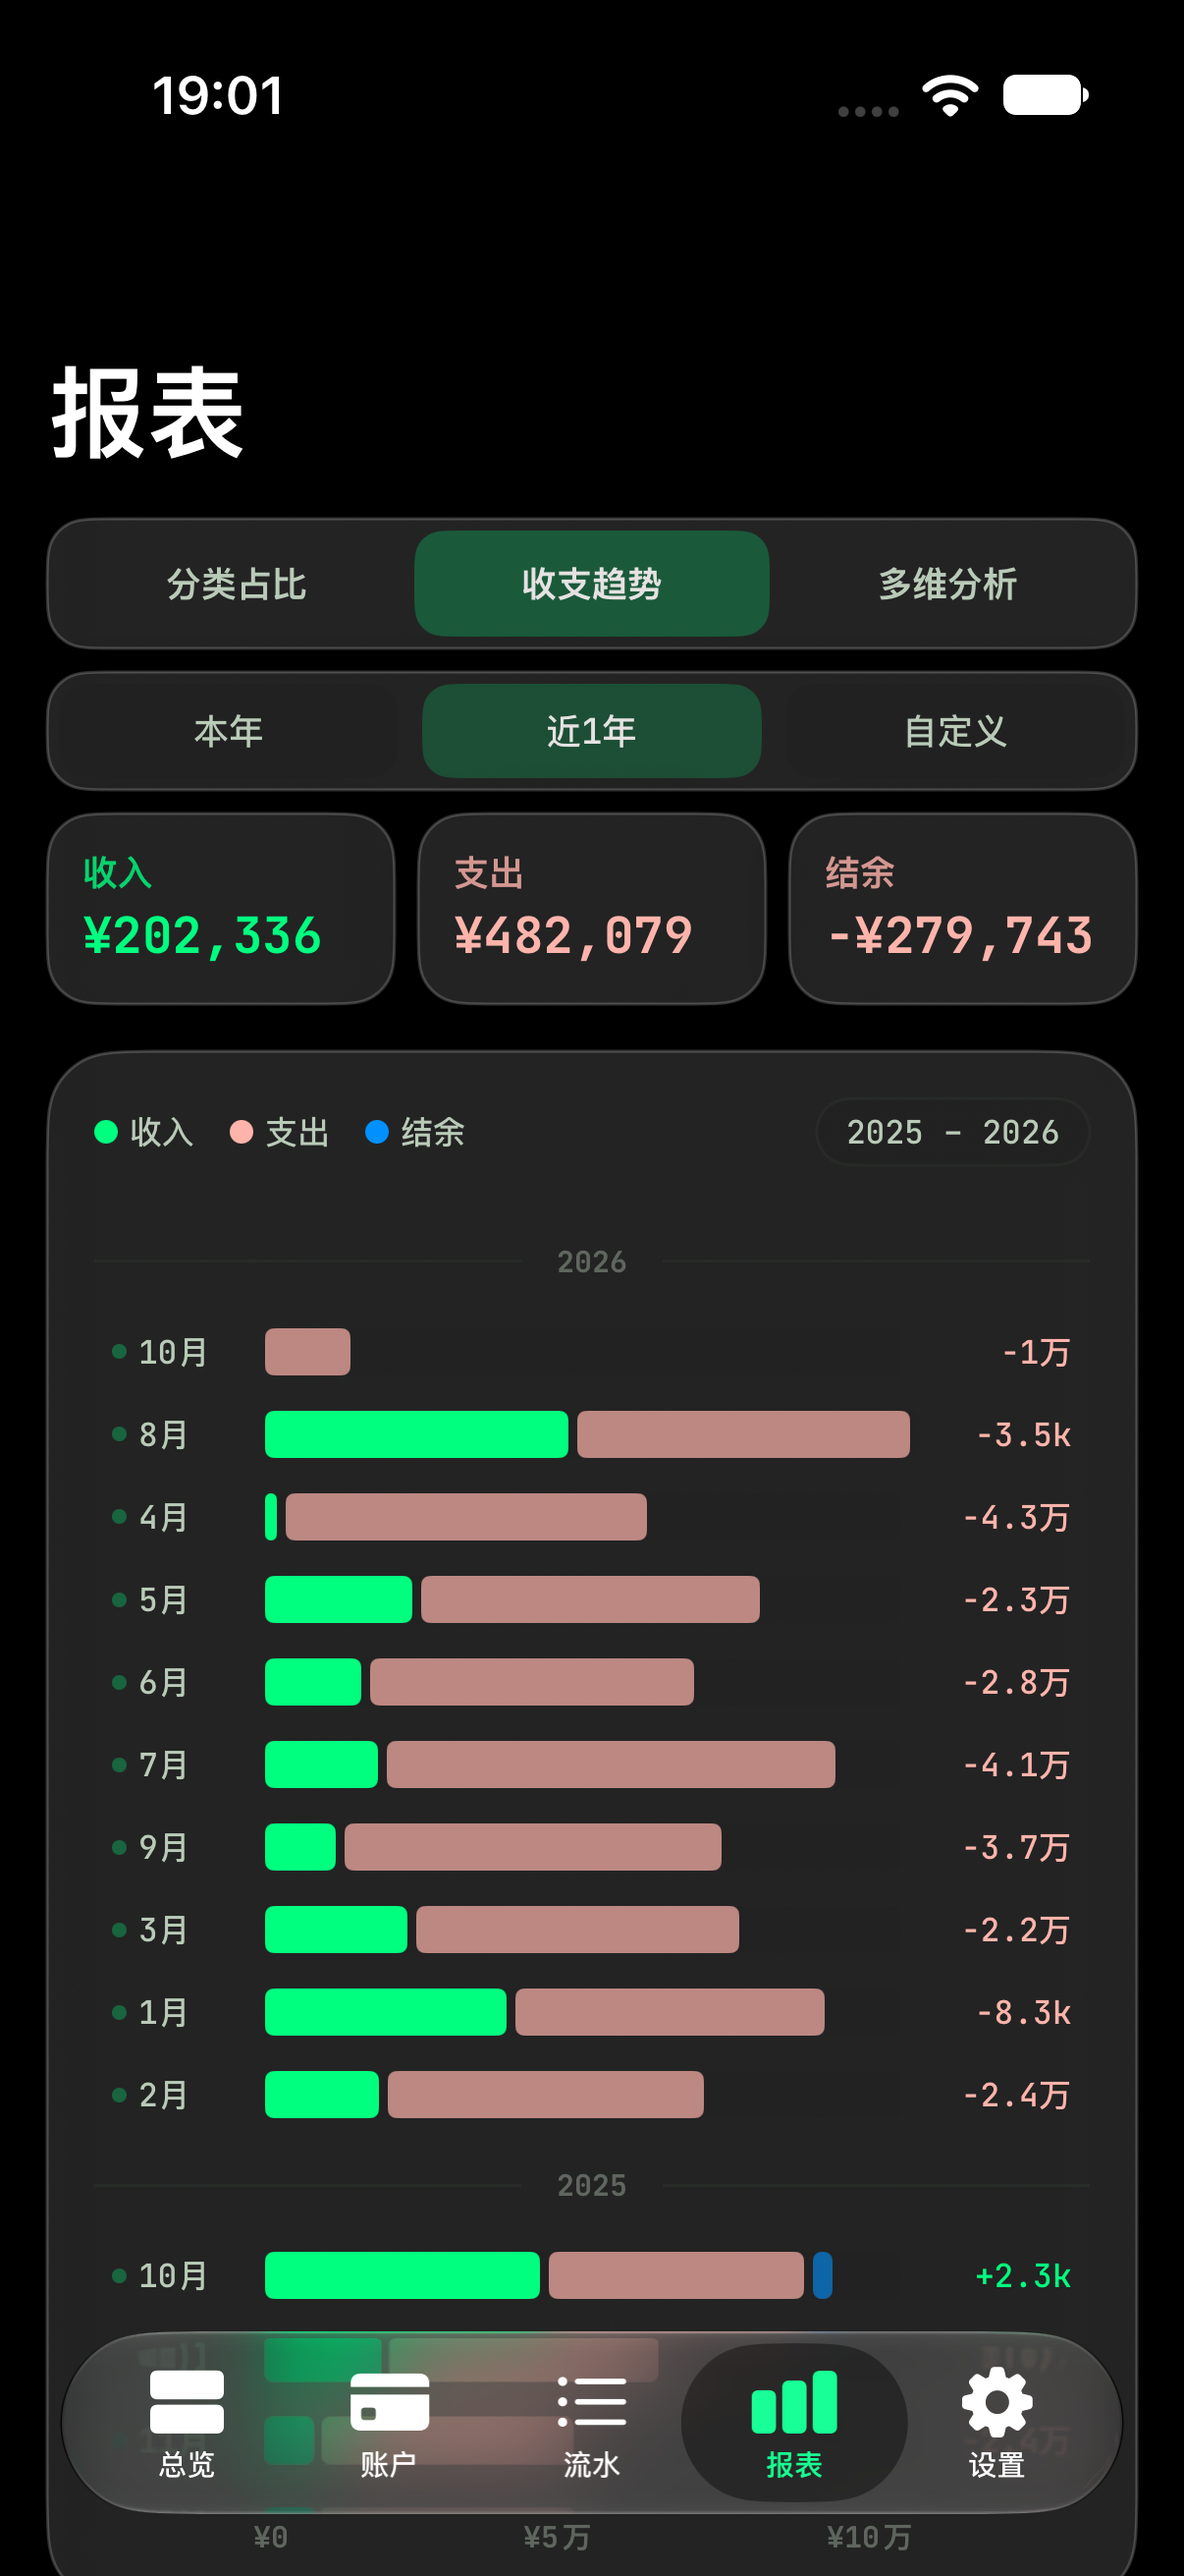
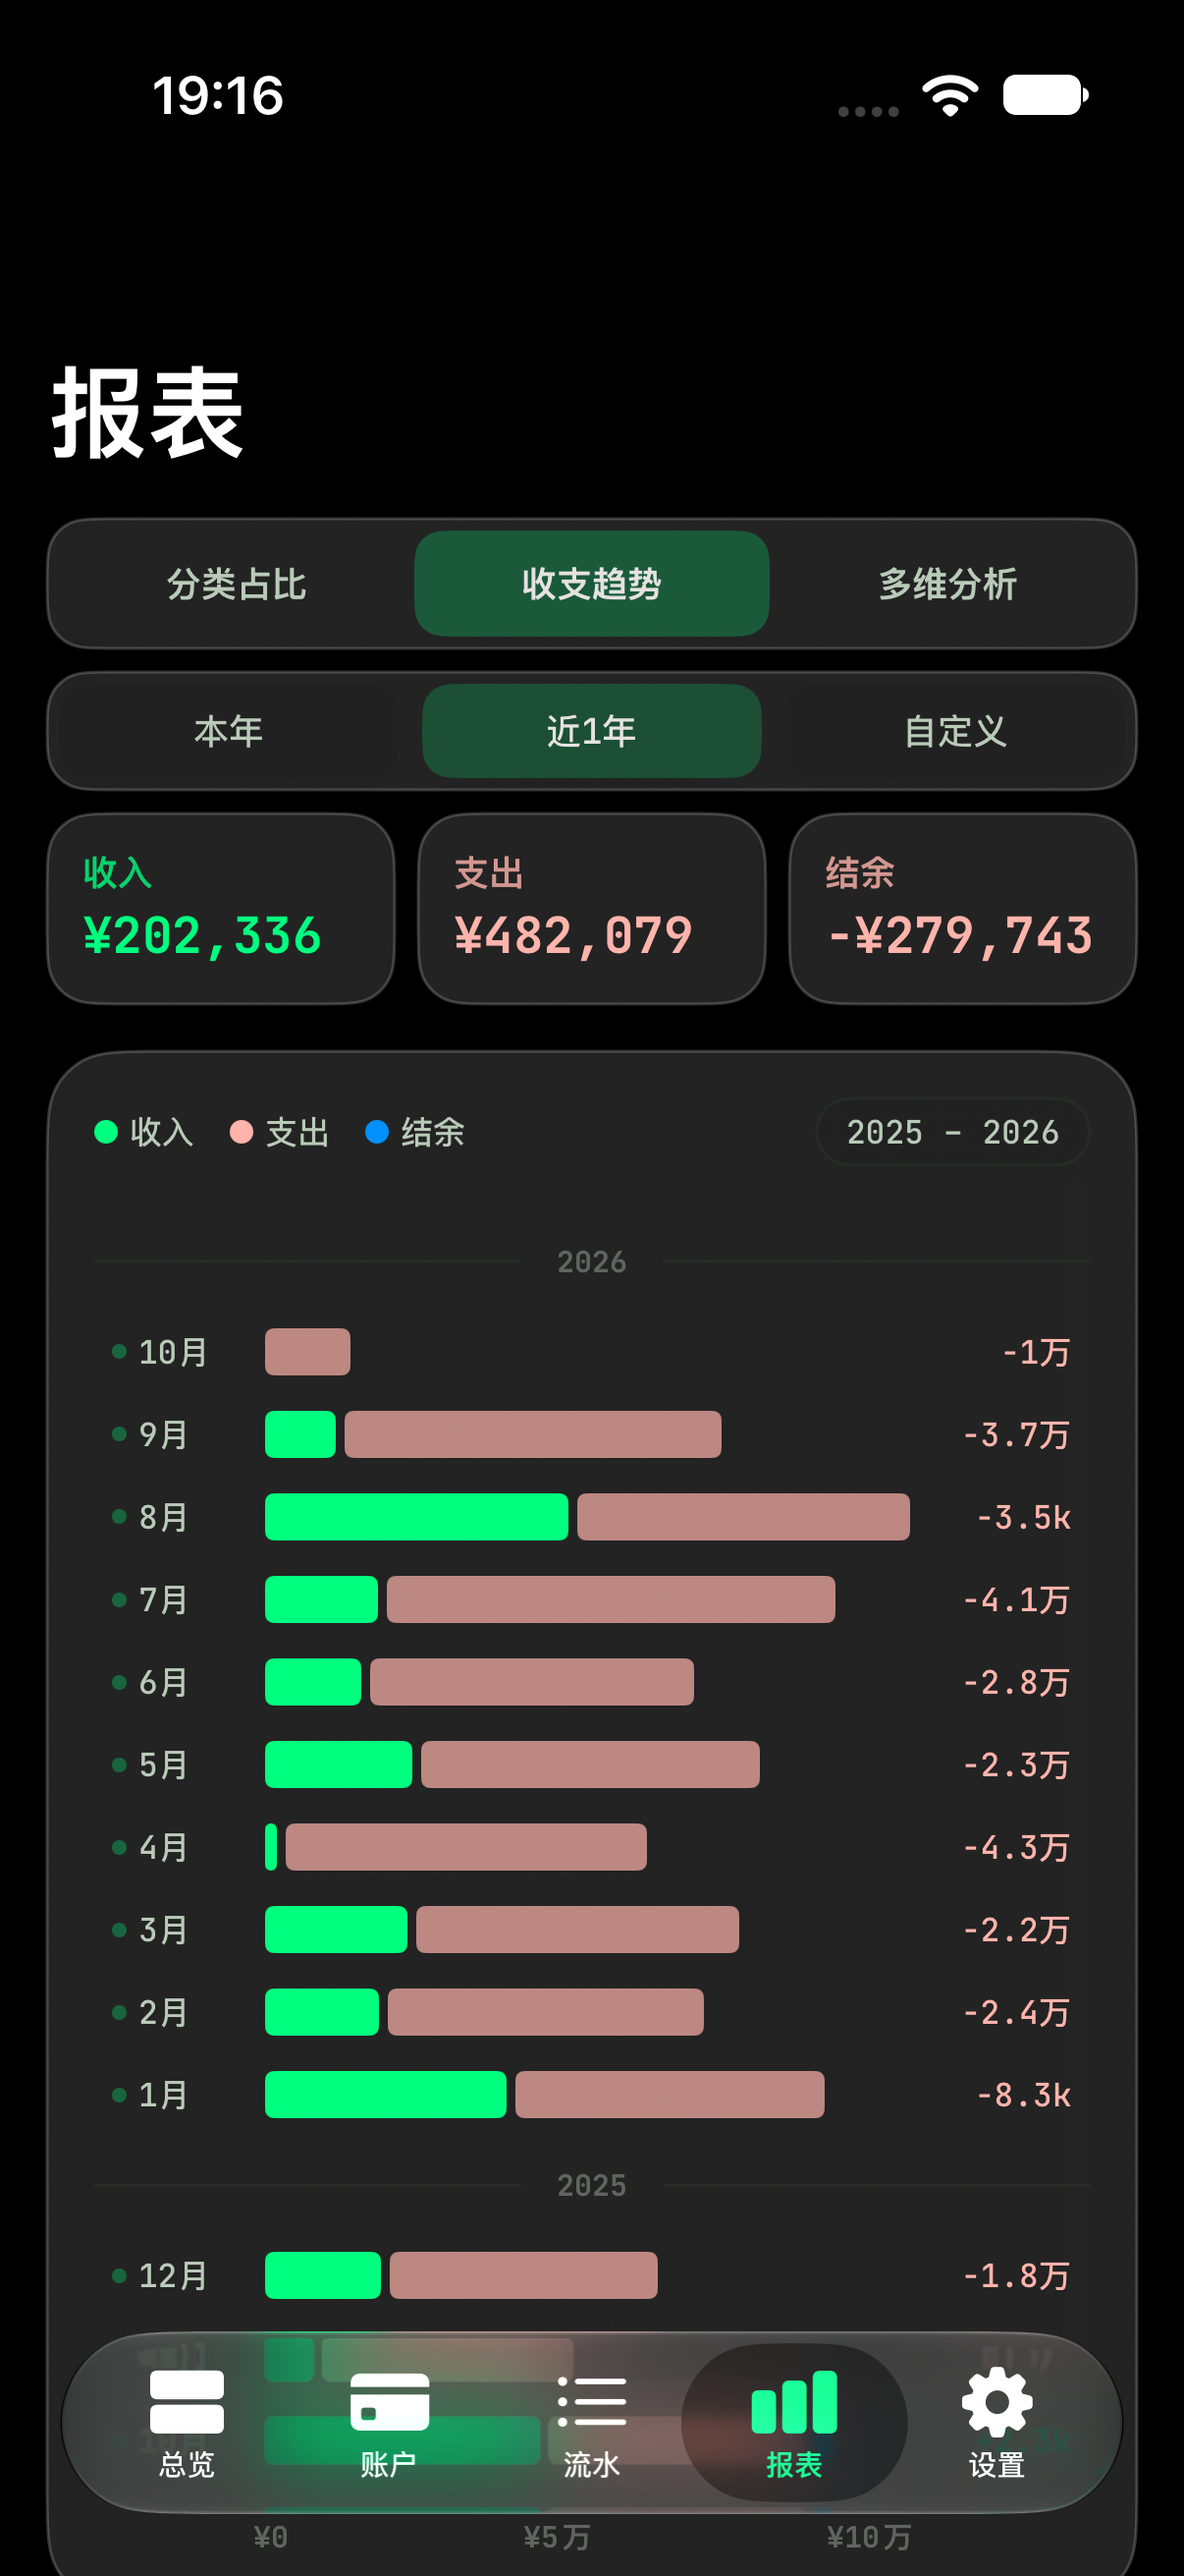
chore(appstore): 重拍报表趋势图 4 张，并更新截图 README
ReportViewModel 修好「月份轴依赖显示串里的『年』字」与「横轴月份乱序」
（39a16ab）之后重拍这 4 张：

- 12-reports-trend-{dark,light}.png
  中文月份原本也是乱的（10月,8月,4月,5月…），现在是严格时间倒序 10月→1月→12月
- 12-reports-trend-{dark,light}-en.png
  月份轴由 26Oct 变为 Oct；年份分组条 2026/2025 与图例右侧「2025 – 2026」恢复

四张均为 1206×2622 真机截图（iPhone 17），中英 × 深浅各一张，已用 Read 逐张核对
文字与主题，非旧包将就。演示数据未改动。

README 更新：
- 「已知显示缺陷」表拆成「已修」（39a16ab 的三条：26Oct、横轴月份乱序、报表
  分类名显示中文）与「未修」（Mac ReportViewModel.swift:904 硬编码 %02d年%d月、
  Section("Logo") 缺中文值）两部分
- 作废「拍英文报表图必须先改分类数据」一节：报表那 3 处裸 Text(name) 已改成
  Text(LocalizedStringKey(name))，catalog 里有条目的分类现在自动出英文名；
  非 catalog 分类（数码产品/停车车位）只在下钻层出现，L1 图拍不到
- 补记趋势图当天二次重拍的原因

diff --git a/tools/appstore-assets/screenshots/README.md b/tools/appstore-assets/screenshots/README.md
@@ -37,6 +37,9 @@
 
 > **报表与账户那 16 张是 2026-10-07 拍的**，旧的单张 `12-reports-dark.png` 已删除
 > （它被 `12-reports-cat-dark.png` 取代）。
+> 其中 **`12-reports-trend-*` 那 4 张当天又重拍过一次**：`ReportViewModel` 修掉了
+> 月份轴依赖「年」字、以及横轴月份乱序两个 bug（commit `39a16ab`）。中文那 2 张的
+> 月份顺序原本也是乱的，所以中英各 2 张一起重拍。
 > **预算那 4 张也是 2026-10-07 补的**——之前只有英文版被重拍过（旧英文版标题还是中文
 > 「预算管理」，因为当时 String Catalog 缺 `en`），中文那对是原先拍的、一直没入库。
 >
@@ -144,14 +147,18 @@ xcrun simctl io <UUID> screenshot tools/appstore-assets/screenshots/14-addtx-dar
 
 - **会**：账户类型分组头（`现金/借记卡/信用卡/电子钱包`）、报表名、周期名、维度名——
   这些是 catalog 条目，切语言即变。
-- **不会**：账本名、账户名、成员名、商户名、项目名、**分类名**。全是用户数据。
+- **不会**：账本名、账户名、成员名、商户名、项目名。全是用户数据。
+- **看情况**：分类名。它是用户数据，但报表模块现在会把它当 catalog key 查一次
+  （见下面那条），所以「餐饮饮食」这类内置分类会自动出英文名。
 
-⚠ **分类名有个例外中的例外**：报表模块用裸 `Text(item.name)` 渲染名字
-（`CategoryPieChartView.swift:279`、`MemberPieChartView.swift:112`、
-`MemberCategoryCrossView.swift:82`），**不走 `LocalizedStringKey`**，所以查不到 catalog，
-即使 catalog 里有「餐饮饮食 → Food & Dining」也没用。全应用其它 20 多处
-（账户行、导航标题、各种选择器）都是 `Text(LocalizedStringKey(name))`，只有报表模块是例外。
-→ **拍英文报表图必须先改分类数据**，否则图例和列表里是中文分类名。
+- **分类名曾经也是例外，现已修**：报表模块原来用裸 `Text(item.name)` 渲染名字
+  （`CategoryPieChartView.swift:279`、`MemberPieChartView.swift:112`、
+  `MemberCategoryCrossView.swift:82`），不走 `LocalizedStringKey`，所以即使 catalog 里
+  有「餐饮饮食 → Food & Dining」也查不到。2026-10-07 的 `39a16ab` 已把这 3 处改成
+  `Text(LocalizedStringKey(item.name))`，与全应用其余 20 多处一致。
+  → **catalog 里有条目的分类现在会自动出英文名，不必再改分类数据。**
+  只有 catalog 里没有的分类仍会显示中文（已知 `数码产品`、`停车车位`），
+  但它们只在下钻层级出现，L1 报表图拍不到。
 
 ### 改名映射（照抄，别现编）
 
@@ -176,10 +183,12 @@ xcrun simctl io <UUID> screenshot tools/appstore-assets/screenshots/14-addtx-dar
 京东→JD.com｜德邦快递→Deppon Express｜中国广电→China Broadnet｜中通快递→ZTO Express｜
 中国邮政 EMS→China Post EMS
 
-**分类**（1 个顶层 + 若干子类，共 94 条）：**直接查 `Localizable.xcstrings` 取官方英文名**
-（`餐饮饮食→Food & Dining`、`交通出行→Transportation`、`购物消费→Shopping` 等），
-不要自己翻。只有 catalog 里没有的才现取——已知 2 条：`数码产品→Digital Products`、
-`停车车位→Parking`。
+**分类不用改**（2026-10-07 起）：`39a16ab` 之后报表走 `LocalizedStringKey`，
+catalog 里有条目的分类自动显示英文。
+> 历史备注（在那之前必须做、现已作废）：94 条分类名要逐条改成英文，映射直接查
+> `Localizable.xcstrings` 取官方英文名（`餐饮饮食→Food & Dining`、
+> `交通出行→Transportation`、`购物消费→Shopping` 等），不要自己翻；
+> catalog 里没有的只有 2 条：`数码产品→Digital Products`、`停车车位→Parking`。
 
 ### 怎么改
 
@@ -201,10 +210,21 @@ xcrun simctl io <UUID> screenshot tools/appstore-assets/screenshots/14-addtx-dar
 拍照时如果发现下面这些，**不要以为是拍错了、也不要自行修图**——它们是 app 当前的真实行为，
 图是如实反映。修要改 Swift 代码。
 
+**已修（2026-10-07，commit `39a16ab`）——重拍时不必再绕过：**
+
+- 英文「收支趋势」月份轴显示 `26Oct`，且比中文版少了年份分组条、少了图例右侧的
+  「2025 – 2026」范围标注。`ReportViewModel` 原先把 `year(.twoDigits)\(month(.abbreviated))`
+  拼成的**显示串**当分组 key，再靠找「年」字反解析年份；英文串里没有「年」字，年份就丢了。
+  现在改成从 `Date` 组件直接取年月，分组 key 用与 locale 无关的「年*100+月」。
+- 同一个函数里横轴月份乱序（fetch 没带 `sortDescriptors`，按 Core Data 任意返回顺序画）
+  ——已按年月升序排序。
+- 英文报表图例/列表出现中文分类名——报表 3 处裸 `Text(name)` 已改成
+  `Text(LocalizedStringKey(name))`（见上一节）。
+
+**未修（拍到就如实留着）：**
+
 | 现象 | 根因 | 影响面 |
 |---|---|---|
-| 英文「收支趋势」月份轴显示 `26Oct / 26Aug / …`，且**比中文版少了年份分组条** | `ReportViewModel.swift:818` 把 `year(.twoDigits)\(month(.abbreviated))` 直接拼接。中文下 `year` 出「25年」，拼成 `25年10月`，`parseYearMonth`（`:1909`）靠找「年」字拆出年份；英文下出 `26Oct`，**没有「年」字**，拆分失败 → 整串当月标签显示，年份分组随之消失 | 英文界面 |
-| 英文报表图例/列表出现中文分类名 | 报表模块用裸 `Text(item.name)`，不走 `LocalizedStringKey`（见上）。截图里是英文，是因为**演示数据被改成了英文**，不是因为控件翻译生效 | 英文界面；用户自建分类同样中招 |
 | Mac「资产变化」报表的 x 轴标签 | `ReportViewModel.swift:904` 硬编码 `String(format: "%02d年%d月", …)`，违反 CLAUDE.md 的日期格式规范（应用 `Date.FormatStyle` 随 locale 自适应） | Mac 英文界面 |
 | 账户新增/编辑表单里出现英文 `Logo` | `Section("Logo")`（`AccountsManagementView.swift:207`、`AddEditAccountView.swift:98`）——key 本身是英文，中文侧没有值 | 中文界面 |
 
